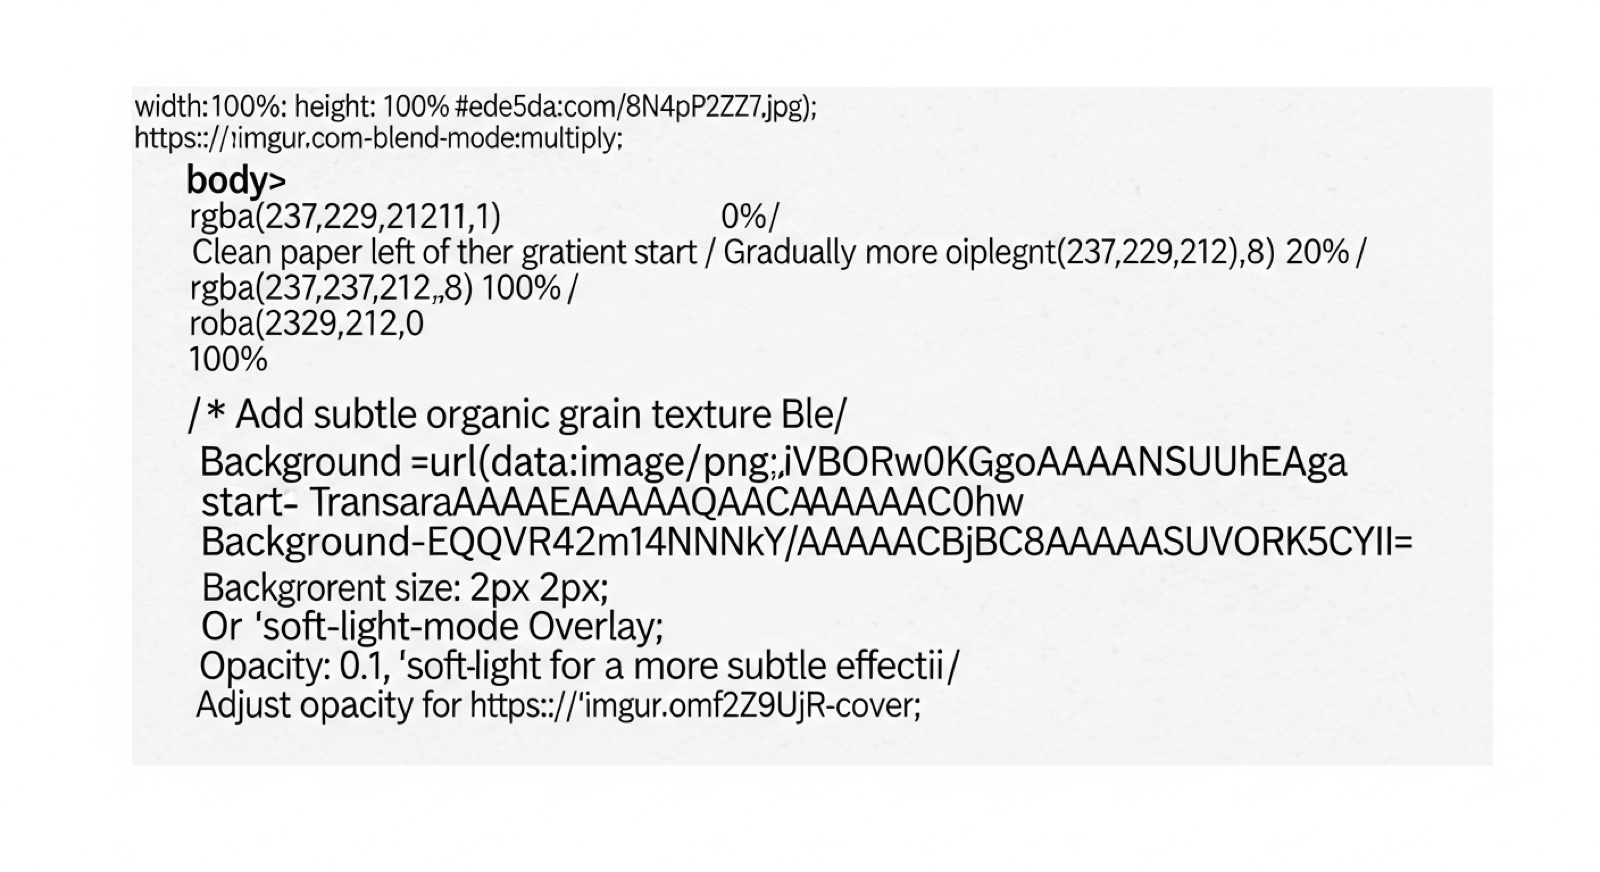
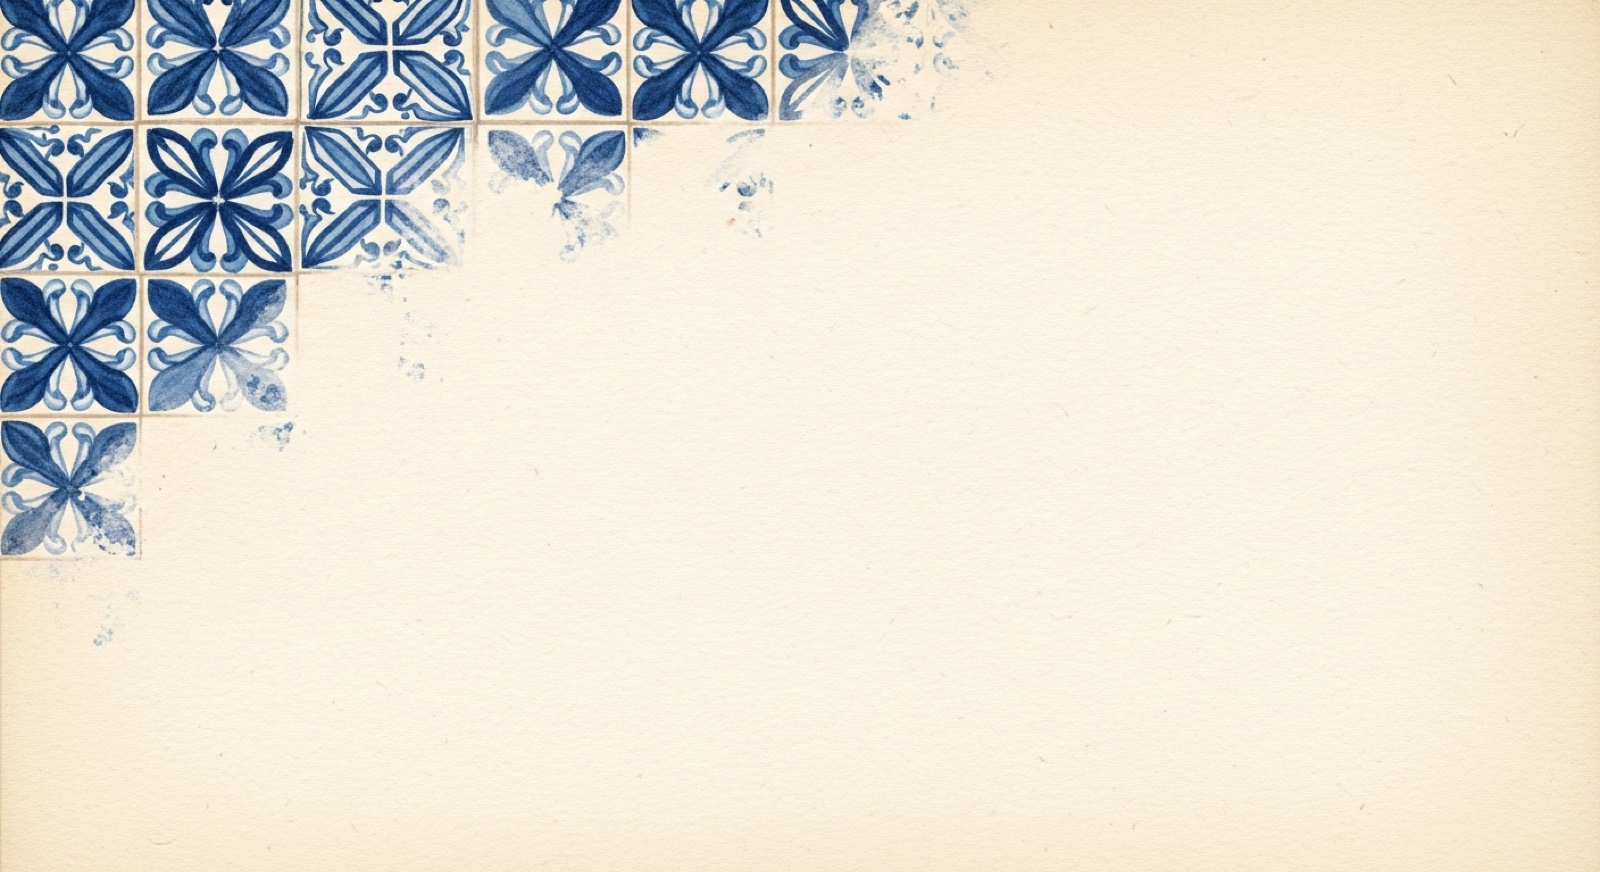
Fix bg-menu-highlights.jpg: Imagen had rendered CSS code as visible text
Regenerated with explicit "no text/code/letters" instructions.
Also adds SW unregister snippet to index.html.

diff --git a/belvedere/mareluna/v2/index.html b/belvedere/mareluna/v2/index.html
@@ -1252,6 +1252,12 @@ footer {
 </div>
 
 <script>
+// Unregister any stale service workers
+if ('serviceWorker' in navigator) {
+  navigator.serviceWorker.getRegistrations().then(function(regs) {
+    regs.forEach(function(r){ r.unregister(); });
+  });
+}
 // ── STARS ──
 (function(){
   const layer = document.getElementById('starsLayer');
